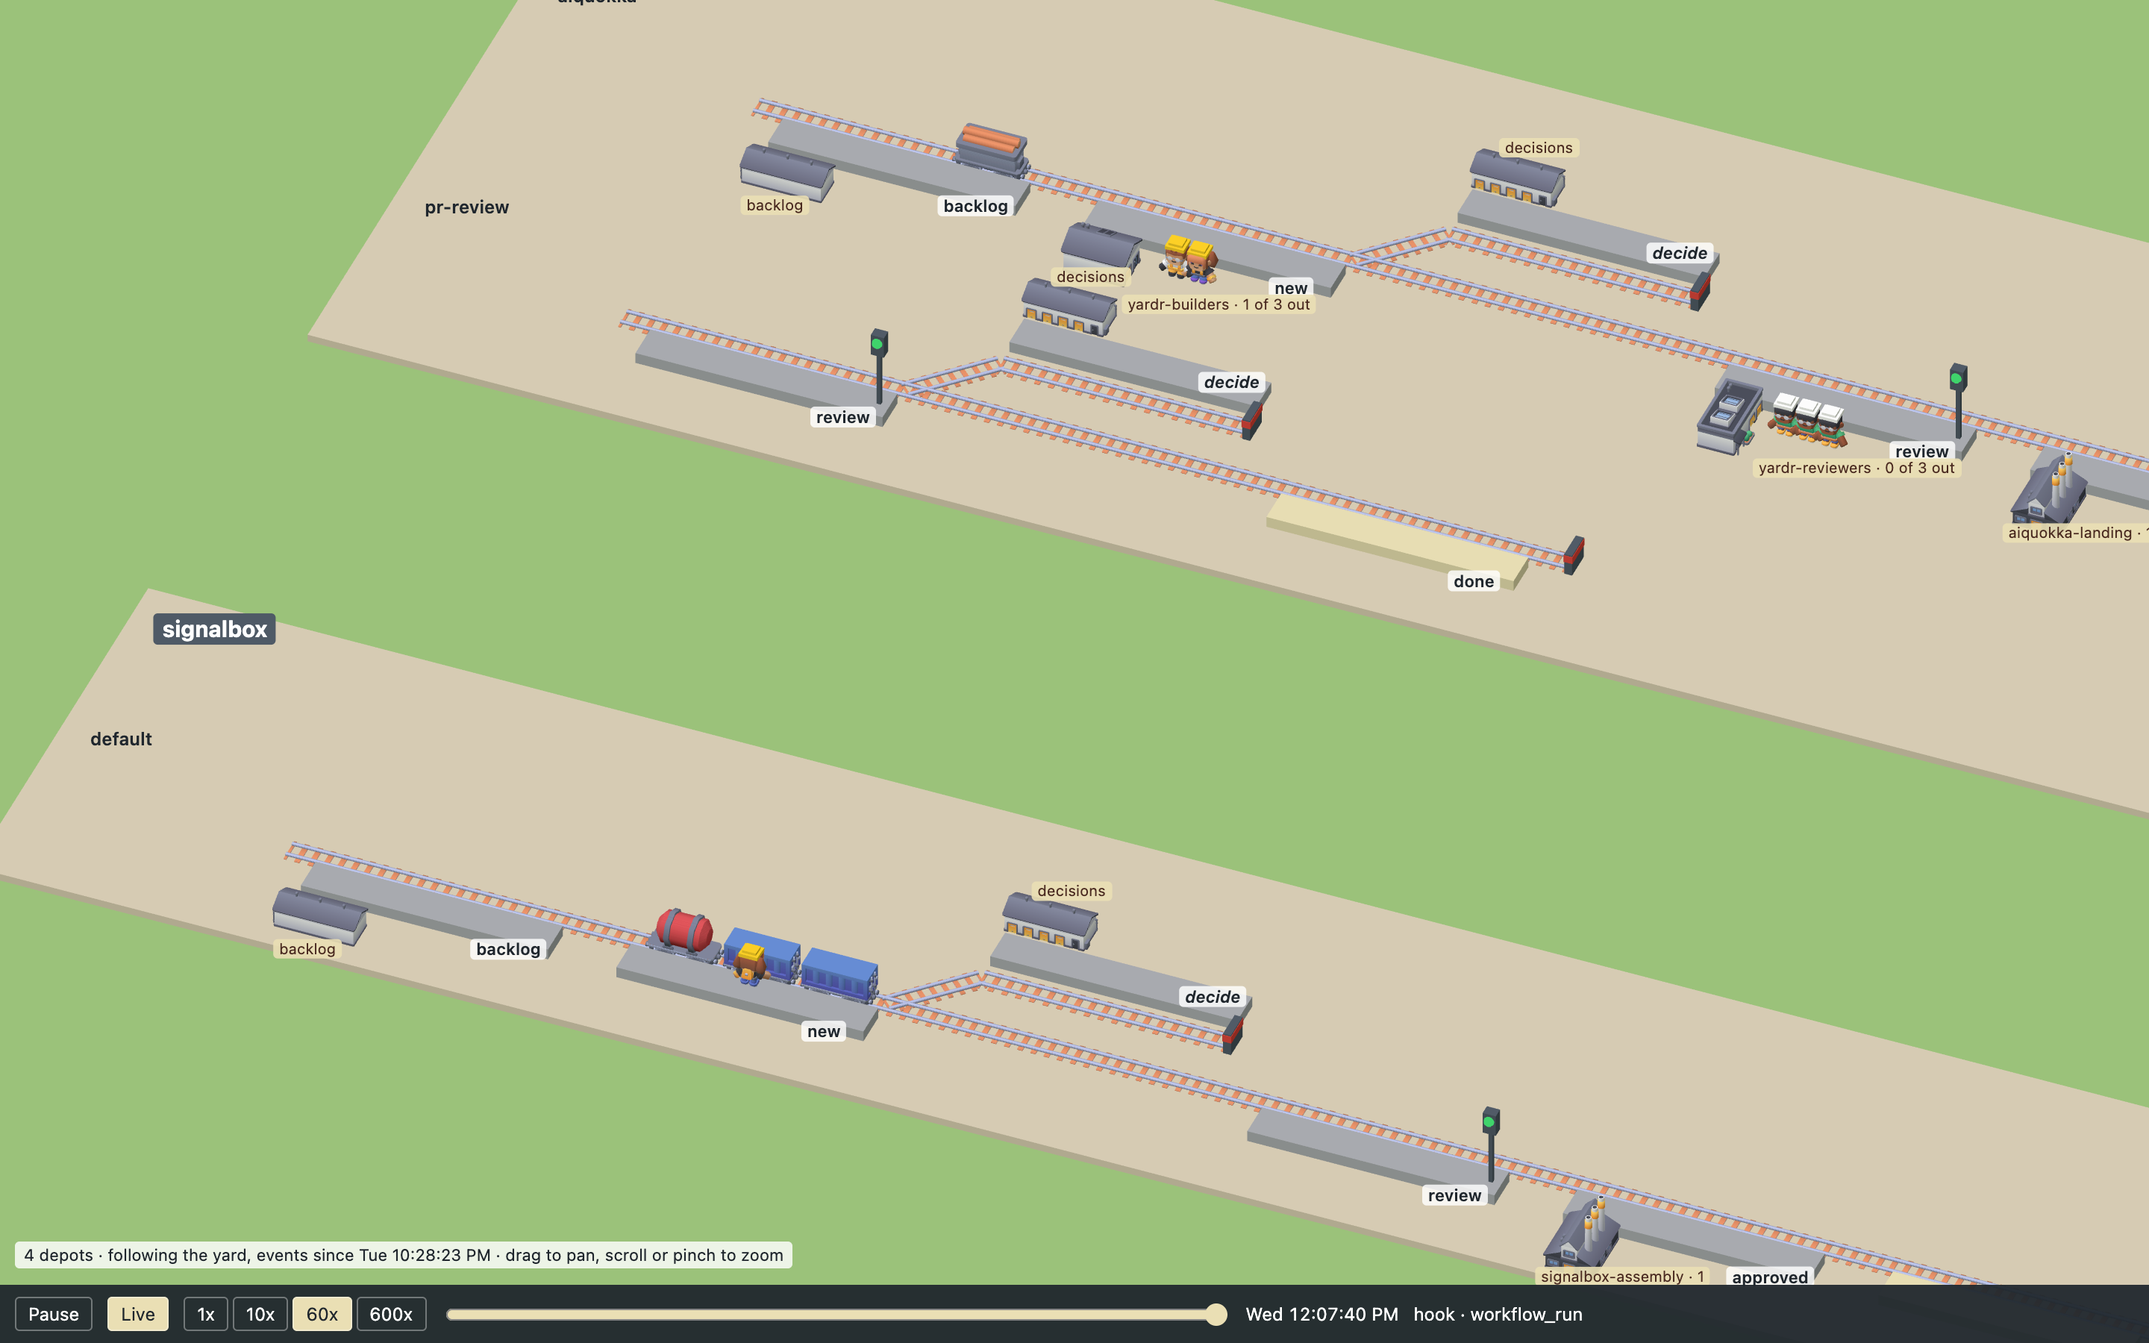
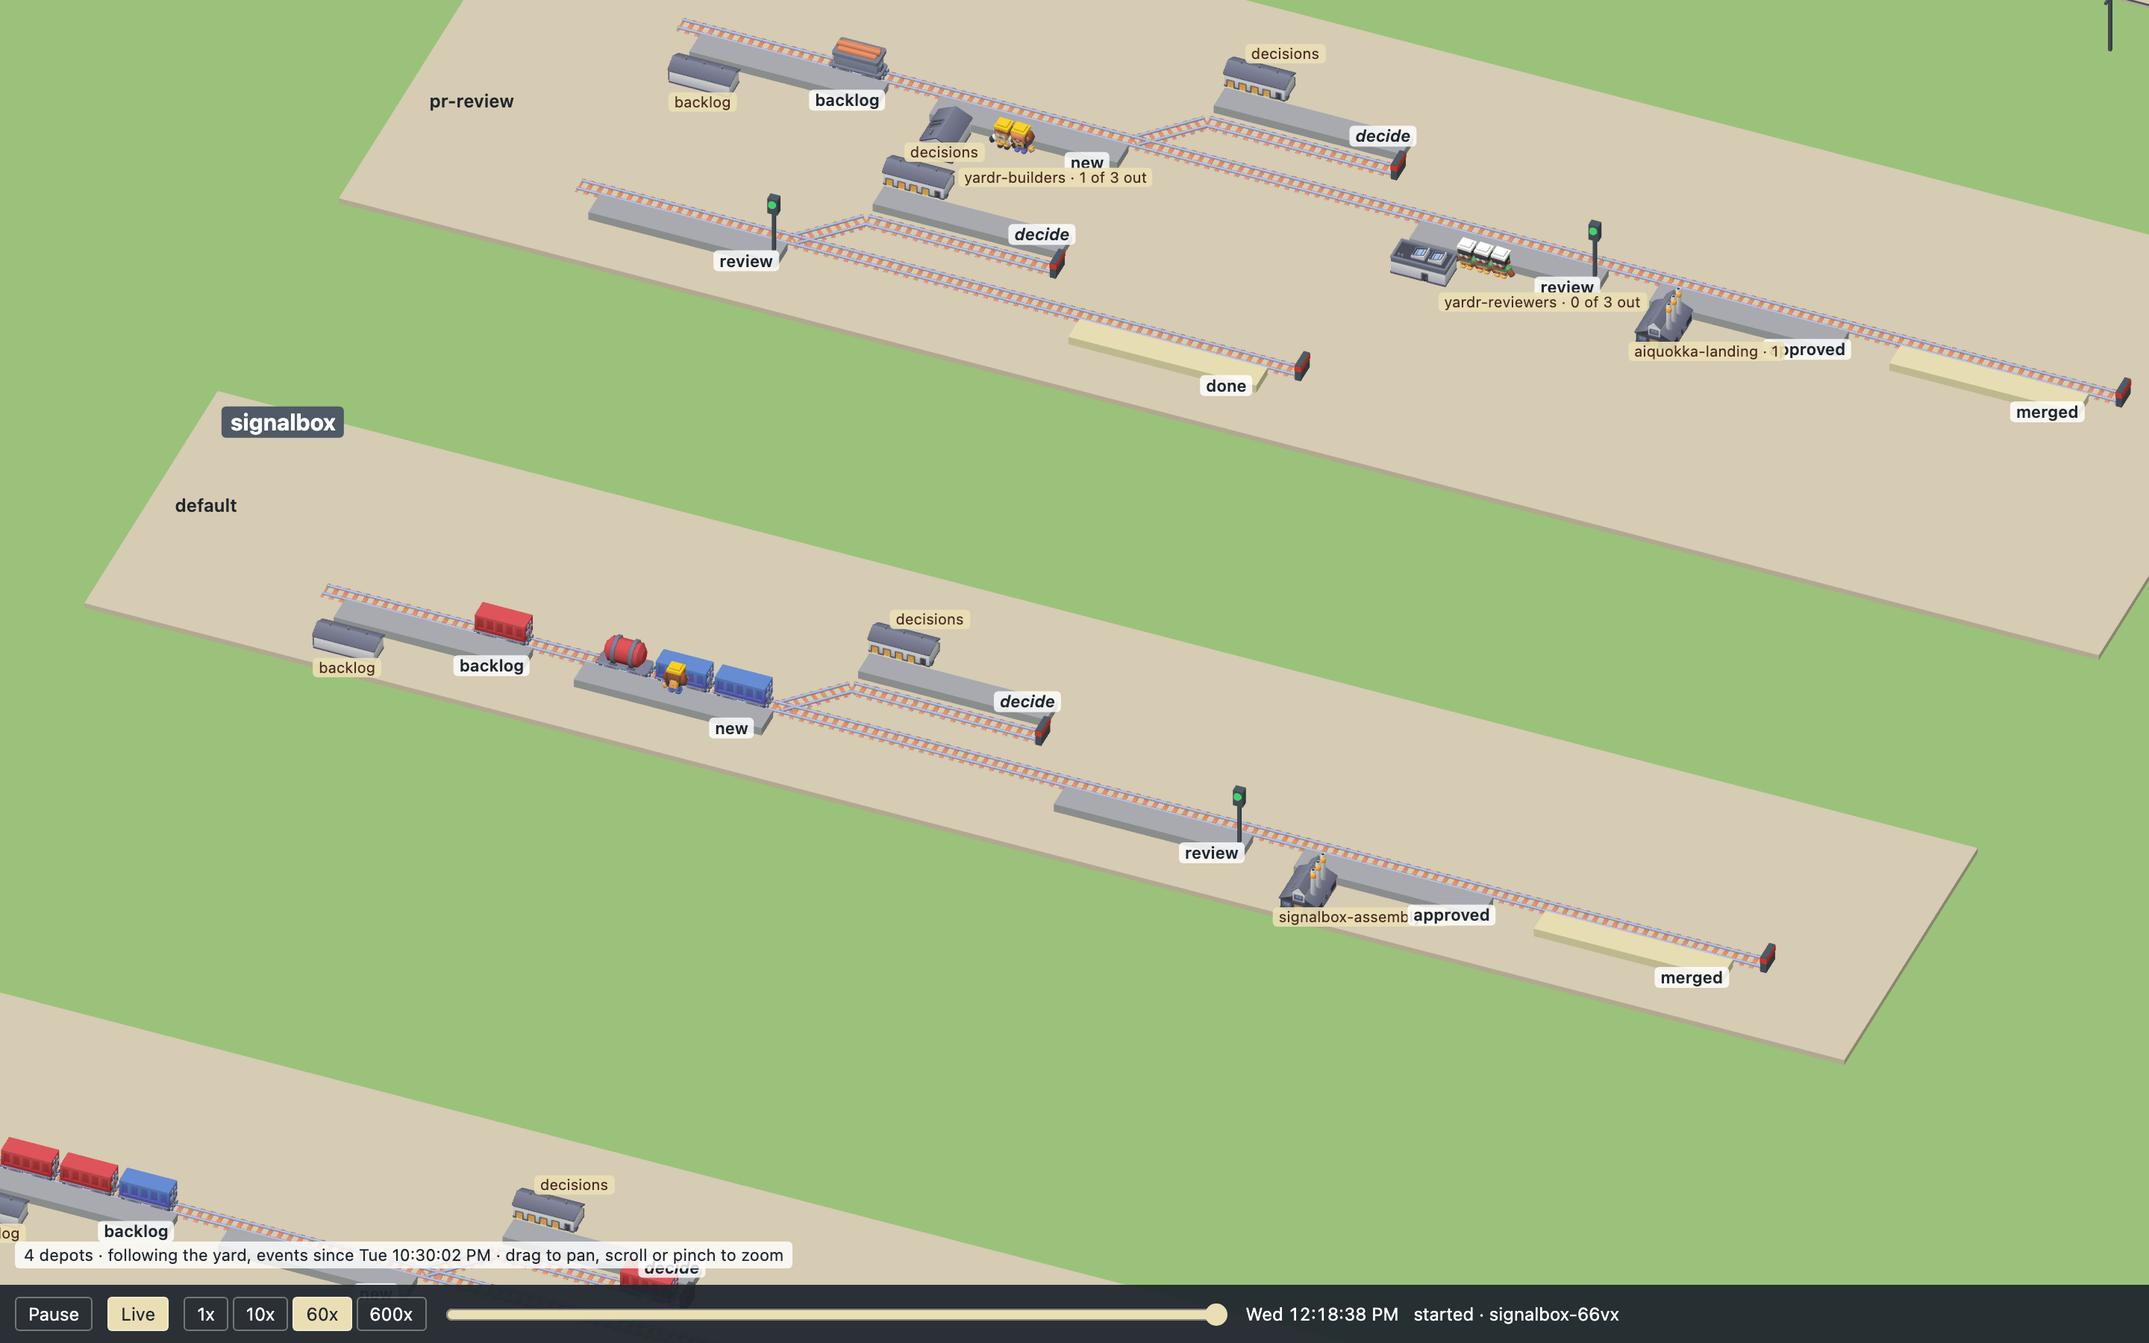
crew: a crew's door is to its platform, and a walk goes at the replay's speed
The review's two findings. A crew's building has its door to the platform, as
a station and a works have; the crew stand in a row from the door's corner
down the line, where the building does not hide them. A walk that starts in a
replay takes its seconds divided by the replay's speed, never under a move's
least, and its legs go as much faster; the working loop stays at 1x.

diff --git a/src/layout.ts b/src/layout.ts
@@ -44,19 +44,21 @@ export const SIDING_SHED_Z = -6;
 export const RETURN_Z = -1.3;
 
 // A group's building stands on a plot this wide from its platform's left
-// end, the next one a pitch on, so two fit beside one platform. A crew's has
-// its door on the right, down the line: the yard is seen from below, and a
-// door to the platform would be behind the building, its crew with it. The
-// crew stand idle before the door in rows of three out from it, a place for
-// each session the group may run.
+// end, the next one a pitch on, so two fit beside one platform. Its door is
+// on the platform's side. The yard is seen from below and from the right, so
+// that side is the building's back and what stands before the door is behind
+// it: a crew stand idle in a row from the door's corner down the line, on
+// the door's side, where the building hides no one. Three to a row, a place
+// for each session the group may run; a further row stands behind the last,
+// away from the platform.
 export const SHED_PITCH = 5;
 export const SHED_WIDTH = 2.5;
 export const PLACE_FILES = 3;
 export const PLACE_PITCH = 0.85;
-// From the door to the first place of a row, and from the building's middle
-// to a row: the first on the platform's side, the second on the other.
+// From the building's right wall to the first place of a row, and from its
+// middle towards the platform to the first row: level with the door.
 export const PLACE_X = 0.55;
-export const PLACE_Z = 0.45;
+export const PLACE_Z = 0.9;
 // From a building's middle towards its platform: the ground the crew walk
 // on, between the buildings and the platforms.
 export const GROUND_Z = 1.1;
@@ -477,7 +479,7 @@ export function layout(yard: Yard, memory: Partial<Slots> = {}): Layout {
         }
 
         // Buildings stand beyond the platform, away from the track; a crew's
-        // places are in rows before its door, the first place nearest it.
+        // places are in rows from its door's corner, the first place nearest.
         const away: 1 | -1 = siding ? -1 : 1;
         const middle = z + (siding ? SIDING_SHED_Z : SHED_Z);
         const ground = middle - away * GROUND_Z;
@@ -493,7 +495,7 @@ export function layout(yard: Yard, memory: Partial<Slots> = {}): Layout {
               key: `${key}/${name}#${p}`,
               at: {
                 x: at.x + SHED_WIDTH / 2 + PLACE_X + (p % PLACE_FILES) * PLACE_PITCH,
-                z: at.z + away * (Math.floor(p / PLACE_FILES) === 0 ? -PLACE_Z : PLACE_Z + (Math.floor(p / PLACE_FILES) - 1) * PLACE_PITCH),
+                z: at.z - away * (PLACE_Z - Math.floor(p / PLACE_FILES) * PLACE_PITCH),
               },
             });
           }

diff --git a/src/motion.ts b/src/motion.ts
@@ -11,11 +11,12 @@ export const TRAIN_SPEED = 14;
 export const TWEEN_MIN = 0.3;
 export const TWEEN_MAX = 1;
 // A figure's pace over the ground, and the least and the most seconds of a
-// walk: the caps of a move, each twice as long, since a person is no train.
+// walk at 1x: a move's longest and twice that, since a person is no train.
+// A faster replay walks faster, down to a move's least.
 export const WALK_SPEED = 5;
 export const WALK_MIN = TWEEN_MAX;
 export const WALK_MAX = 2 * TWEEN_MAX;
-// The fastest the walking clip plays, in times its own pace.
+// The fastest the walking clip plays at 1x, in times its own pace.
 export const STRIDE_MAX = 2.5;
 // How far past the end of its track a wagon rolls on its way out.
 export const RUN_OUT = 9;
@@ -162,17 +163,22 @@ export function walk(from: Person, to: Person): Point[] {
   return way.filter((p, i) => i === 0 || p.x !== way[i - 1]!.x || p.z !== way[i - 1]!.z);
 }
 
-// The seconds a walk of this length takes: a second at a walking pace, and
-// never more than two, however far the hut is from the wagon.
-export function walkSeconds(length: number): number {
-  return Math.min(WALK_MAX, Math.max(WALK_MIN, length / WALK_SPEED));
+// The seconds a walk of this length takes, at a speed of the replay: at 1x a
+// second at a walking pace, and never more than two, however far the hut is
+// from the wagon. The replay's clock is the walk's: at 10x it is a tenth of
+// that, but never under a move's least, as for a wagon.
+export function walkSeconds(length: number, speed = 1): number {
+  const plain = Math.min(WALK_MAX, Math.max(WALK_MIN, length / WALK_SPEED));
+  return Math.max(TWEEN_MIN, plain / speed);
 }
 
-// How fast the walking clip plays over a way: with the feet at the pace over
-// the ground, as far as legs go. A long way in two seconds is a run, not a
-// blur.
+// How fast the walking clip plays over a way that takes these seconds: at 1x
+// with the feet at the pace over the ground, as far as legs go (a long way
+// in two seconds is a run, not a blur), and as much faster as the replay
+// made the walk shorter.
 export function stride(length: number, seconds: number): number {
-  return Math.min(STRIDE_MAX, Math.max(1, length / seconds / WALK_SPEED));
+  const plain = walkSeconds(length);
+  return Math.min(STRIDE_MAX, Math.max(1, length / plain / WALK_SPEED)) * (plain / seconds);
 }
 
 // The way a thing looks that goes from a to b, as scene.ts turns a model: 0

diff --git a/src/scene.ts b/src/scene.ts
@@ -158,12 +158,12 @@ function signal(x: number, z: number): THREE.Object3D {
   return post;
 }
 
-// A group's building, of its kind, in the middle of its plot. A crew's door
-// looks down the line, at its crew; a station's and a works' at the platform.
+// A group's building, of its kind, in the middle of its plot, its door to the
+// platform.
 function shed(s: Shed, kit: Kit): THREE.Object3D {
   const object = kit.make(s.kind);
   // The kit hands it out with its door to -z: where a track's own side is.
-  object.rotation.y = s.places.length > 0 ? -Math.PI / 2 : s.away < 0 ? Math.PI : 0;
+  object.rotation.y = s.away < 0 ? Math.PI : 0;
   // Centred by its walls, whatever stands out from them.
   const middle = new THREE.Box3().setFromObject(object).getCenter(new THREE.Vector3());
   object.position.set(s.at.x - middle.x, 0, s.at.z - middle.z);
@@ -331,6 +331,8 @@ export interface Show {
   tween: boolean;
   // The beads that left for good: they roll out past the buffer.
   left?: ReadonlySet<string>;
+  // The replay's speed: a walk that starts now is that much faster.
+  speed?: number;
 }
 
 // The moving stock. show takes a layout and brings every wagon, figure and
@@ -428,7 +430,7 @@ export class Stock {
         this.root.add(walker.object);
       } else if (walker.person.at.x !== p.at.x || walker.person.at.z !== p.at.z) {
         const way = walk(walker.person, p);
-        const time = walkSeconds(measure(way));
+        const time = walkSeconds(measure(way), how.speed);
         walker.stride = stride(measure(way), time);
         walker.steps = [walker.person, p].filter((q) => q.platform !== undefined).map((q) => ({ at: q.at, gate: q.gate }));
         this.send(walker, way, { seconds: time }, how.tween);
@@ -525,7 +527,8 @@ export class Stock {
       }
       w.playing = now;
     }
-    // The working loop keeps its own pace; only the walk is as fast as its way.
+    // The working loop keeps its own pace at any speed of the replay; only the
+    // walk is as fast as its way.
     next?.setEffectiveTimeScale(now === "walk" ? w.stride : 1);
     mixer.update(Number.isFinite(dt) && !frozen ? dt : 0);
   }

diff --git a/test/scene.test.ts b/test/scene.test.ts
@@ -4,8 +4,8 @@ import { afterAll, beforeAll, describe, expect, test, vi } from "vitest";
 import snapshot from "../public/yard.json";
 import { loadKit, type Kit } from "../src/kit";
 import { layout, people, PLACE_X, SHED_WIDTH } from "../src/layout";
-import { WALK_MAX } from "../src/motion";
-import { describe as tip, house, sign, Stock } from "../src/scene";
+import { TWEEN_MIN, WALK_MAX } from "../src/motion";
+import { describe as tip, draw, house, sign, Stock } from "../src/scene";
 import type { Bead, Yard } from "../src/yard";
 
 // No file of the kit is there: every model is its box. And no page: a label
@@ -117,6 +117,28 @@ describe("the figures of the stock", () => {
     stock.tick(WALK_MAX);
     home(figure);
     expect(stock.beads).not.toContain(figure);
+  });
+
+  test("the replay's speed is the walk's: at 10x it is there in a move's least, at 1x not yet", () => {
+    for (const [speed, there] of [[1, false], [10, true]] as const) {
+      const stock = new Stock(quiet, kit);
+      const figure = first(stock);
+      stock.show(busy, { tween: true, speed });
+      stock.tick(TWEEN_MIN);
+      expect(figure.position.x === post.at.x && figure.position.z === post.at.z, `${speed}x`).toBe(there);
+    }
+  });
+
+  test("a building's door is to its platform, and no one of its crew stands behind it", () => {
+    const sheds = draw(quiet, kit).sheds;
+    for (const object of sheds) {
+      const s = object.userData.shed as (typeof quiet.sheds)[number];
+      // The kit's door looks to -z: up the page, where a main line's platform is.
+      expect(object.rotation.y, s.key).toBe(s.away > 0 ? 0 : Math.PI);
+      const wall = new THREE.Box3().setFromObject(object).max.x;
+      for (const p of s.places) expect(p.at.x, p.key).toBeGreaterThan(wall);
+    }
+    expect(sheds.some((o) => (o.userData.shed as (typeof quiet.sheds)[number]).places.length > 0)).toBe(true);
   });
 
   test("a scrub snaps: at the wagon at once, and at home at once", () => {

diff --git a/test/layout.test.ts b/test/layout.test.ts
@@ -282,22 +282,23 @@ describe("the mapping", () => {
     // A station and a works stand at every platform routed to them.
     expect(l.sheds.filter((s) => s.group === "backlog").length).toBeGreaterThan(1);
 
-    // The places: in a row out from the door, on the platform's side of the building's middle.
+    // The places: in a row from the door's corner down the line, on the door's side: the platform's.
     const hut = builders[0]!;
     expect(hut.places.map((p) => p.key)).toEqual([0, 1, 2].map((p) => `${hut.key}#${p}`));
     hut.places.forEach((p, k) => {
       expect(p.at.x).toBeCloseTo(hut.at.x + SHED_WIDTH / 2 + PLACE_X + k * PLACE_PITCH);
       expect(p.at.z).toBeCloseTo(hut.at.z - PLACE_Z);
     });
-    // Beyond three, a second row on the other side; further rows extend away.
+    // Beyond three, a second row behind the first, and so on away from the platform.
     const grown = copy();
     grown.groups.find((g) => g.name === "yardr-builders")!.limit = 8;
     const wide = layout(grown).sheds.find((s) => s.key === hut.key)!;
     expect(wide.limit).toBe(8);
     expect(wide.places.length).toBe(wide.limit);
     expect(wide.places.slice(0, 3)).toEqual(hut.places);
-    expect(wide.places[3]!.at).toEqual({ x: hut.places[0]!.at.x, z: hut.at.z + PLACE_Z });
-    expect(wide.places[6]!.at).toEqual({ x: hut.places[0]!.at.x, z: hut.at.z + PLACE_Z + PLACE_PITCH });
+    expect(wide.places[3]!.at.x).toBe(hut.places[0]!.at.x);
+    expect(wide.places[3]!.at.z).toBeCloseTo(hut.at.z - PLACE_Z + PLACE_PITCH);
+    expect(wide.places[6]!.at.z).toBeCloseTo(hut.at.z - PLACE_Z + 2 * PLACE_PITCH);
     expect(new Set(wide.places.map((p) => `${p.at.x}/${p.at.z}`)).size).toBe(wide.limit);
     // The first platform is the one of the lowest slots, not the first listed.
     const turned = copy();

diff --git a/src/main.ts b/src/main.ts
@@ -291,18 +291,18 @@ async function start() {
       if (api) player.extend(now());
       if (!player.playing) return;
       const passed = player.advance(dt);
+      // Live, the yard's own pace, whatever speed the bar was left at.
+      const speed = player.live ? 1 : player.speed;
       for (const e of passed) {
         if (e.kind === "hook") stock.flash();
         const peer = e.data?.peer;
-        // Live, the yard's own pace, whatever speed the bar was left at.
-        const speed = player.live ? 1 : player.speed;
         if (peer !== undefined && e.kind === "peer_message_sent") stock.goods(peer, "out", e.data?.kind, speed);
         if (peer !== undefined && e.kind === "peer_message_received") stock.goods(peer, "in", e.data?.kind, speed);
       }
       if (passed.length > 0) {
         // A bead an advance took out of the state went past the buffer.
         const left = new Set(passed.filter((e) => e.kind === "advanced").map((e) => e.bead ?? ""));
-        stock.show(plan(player.state.beads), { tween: true, left });
+        stock.show(plan(player.state.beads), { tween: true, left, speed });
       }
       // Played to the window's end, the replay is at now: it stays there.
       if (api && !player.live && player.clock >= player.to) player.follow();

diff --git a/test/motion.test.ts b/test/motion.test.ts
@@ -196,12 +196,22 @@ describe("a figure's way", () => {
     expect(WALK_MAX).toBe(2);
   });
 
+  test("the replay's speed is the walk's, down to a move's least", () => {
+    expect(walkSeconds(1.5 * WALK_SPEED, 1)).toBe(1.5);
+    expect(walkSeconds(1.5 * WALK_SPEED, 2)).toBe(0.75);
+    expect(walkSeconds(400, 2)).toBe(1);
+    for (const speed of [10, 60, 600]) expect(walkSeconds(400, speed)).toBe(TWEEN_MIN);
+  });
+
   test("the legs keep the pace of the way, up to a run", () => {
     expect(stride(WALK_SPEED, 1)).toBe(1);
     expect(stride(1.5 * WALK_SPEED, 1)).toBe(1.5);
     // A short way in its least second is still a walk, not a slow one.
     expect(stride(0.5, 1)).toBe(1);
     expect(stride(400, WALK_MAX)).toBe(STRIDE_MAX);
+    // A walk the replay made shorter: the legs are as much faster.
+    expect(stride(WALK_SPEED, walkSeconds(WALK_SPEED, 2))).toBe(2);
+    expect(stride(400, walkSeconds(400, 10))).toBeCloseTo((STRIDE_MAX * WALK_MAX) / TWEEN_MIN);
   });
 
   test("it looks the way it goes, and turns the short way round", () => {

diff --git a/README.md b/README.md
@@ -46,13 +46,17 @@ group has a building beside a platform it is routed to: people a station, a
 group whose sessions are scripts a works, at each of their platforms. A
 group that runs sessions in panes is a crew, and has one building for all
 its platforms, at the first of them: builders a site hut and yellow hard
-hats, reviewers an office and white ones. The crew stand idle in a row out
-from the door, a place for each session the group may run, and the sign
+hats, reviewers an office and white ones. Every building has its door to
+its platform; a crew stand idle in a row from the door's corner down the
+line, where the building does not hide them from the reader, a place for
+each session the group may run, and the sign
 counts who is out (`yardr-builders · 1 of 3 out`), so an empty place is a
 session at work. When a session starts, the first figure at home walks over
-the ground to the platform its bead stands at (a second or two, however
-far), turns to the wagon and works on it, and says under the pointer which
-bead and group; when the session ends it walks back. A scrub puts everyone
+the ground to the platform its bead stands at (a second or two at 1x,
+however far; a faster replay walks as much faster, down to a wagon's least
+0.3 s), turns to the wagon and works on it at its own pace, whatever the
+replay's, and says under the pointer which bead and group; when the session
+ends it walks back. A scrub puts everyone
 where they were then, at once. With `prefers-reduced-motion` the figures
 stand still where they are, a hand at the wagon. A building says under the
 pointer its group, runner and limit. The yard's crew members stand before
@@ -106,7 +110,7 @@ machine's on a Tailscale net, for a phone on the same net.
 Without the script (`npm run dev`, or `dist/` on any static server) nothing
 of this is there, and the page is the committed snapshot and its replay.
 
-![The page following this yard, closer in: Live on the bar, two builders before their hut and the third at work on a wagon at signalbox's new](docs/live.png)
+![The page following this yard, closer in: Live on the bar, two builders by the door of their hut and the third at work on a wagon at signalbox's new](docs/live.png)
 
 ## Where things are
 
@@ -151,8 +155,8 @@ of this is there, and the page is the committed snapshot and its replay.
 - `src/player.ts`: the replay's clock and speed, and, live, a window that
   grows at its end. `src/motion.ts`: the way a wagon takes between two
   places, and how long it takes (a second at most, at any speed; a peer's goods four at
-1x and never under two), a figure's way between its place and its wagon, and
-  what it does there.
+1x and never under two), a figure's way between its place and its wagon, how
+  long it takes at a speed of the replay, and what it does there.
 - `src/scene.ts` draws a layout: `draw` what stands still, `Stock` the wagons
   and figures, which it moves from one state to the next, each figure with a
   mixer of its own: one clip at a time, faded into the next. `src/main.ts` is the
